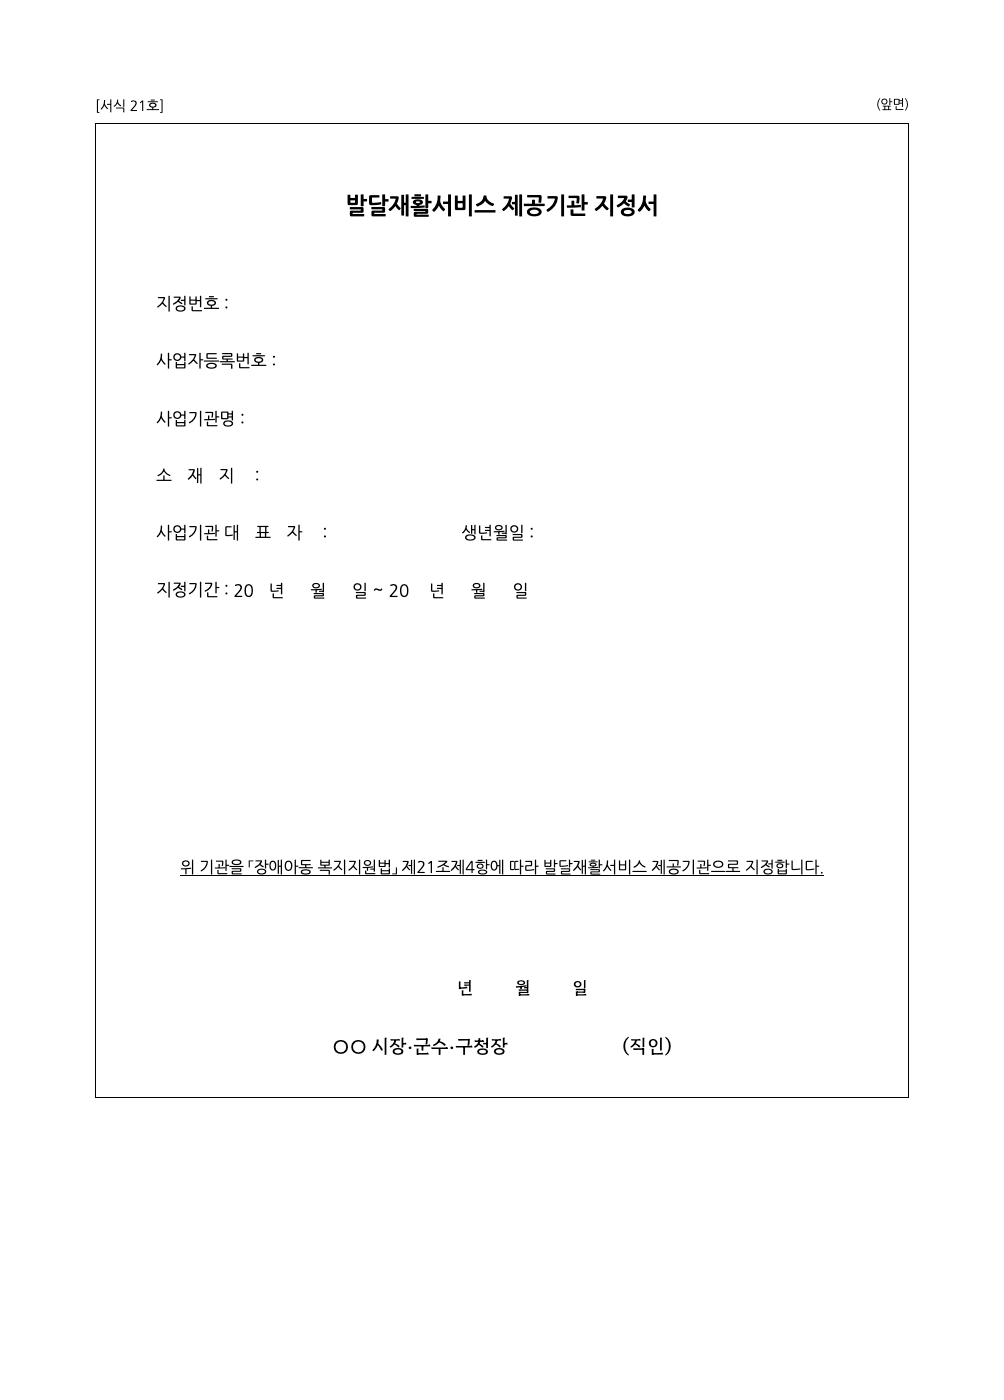
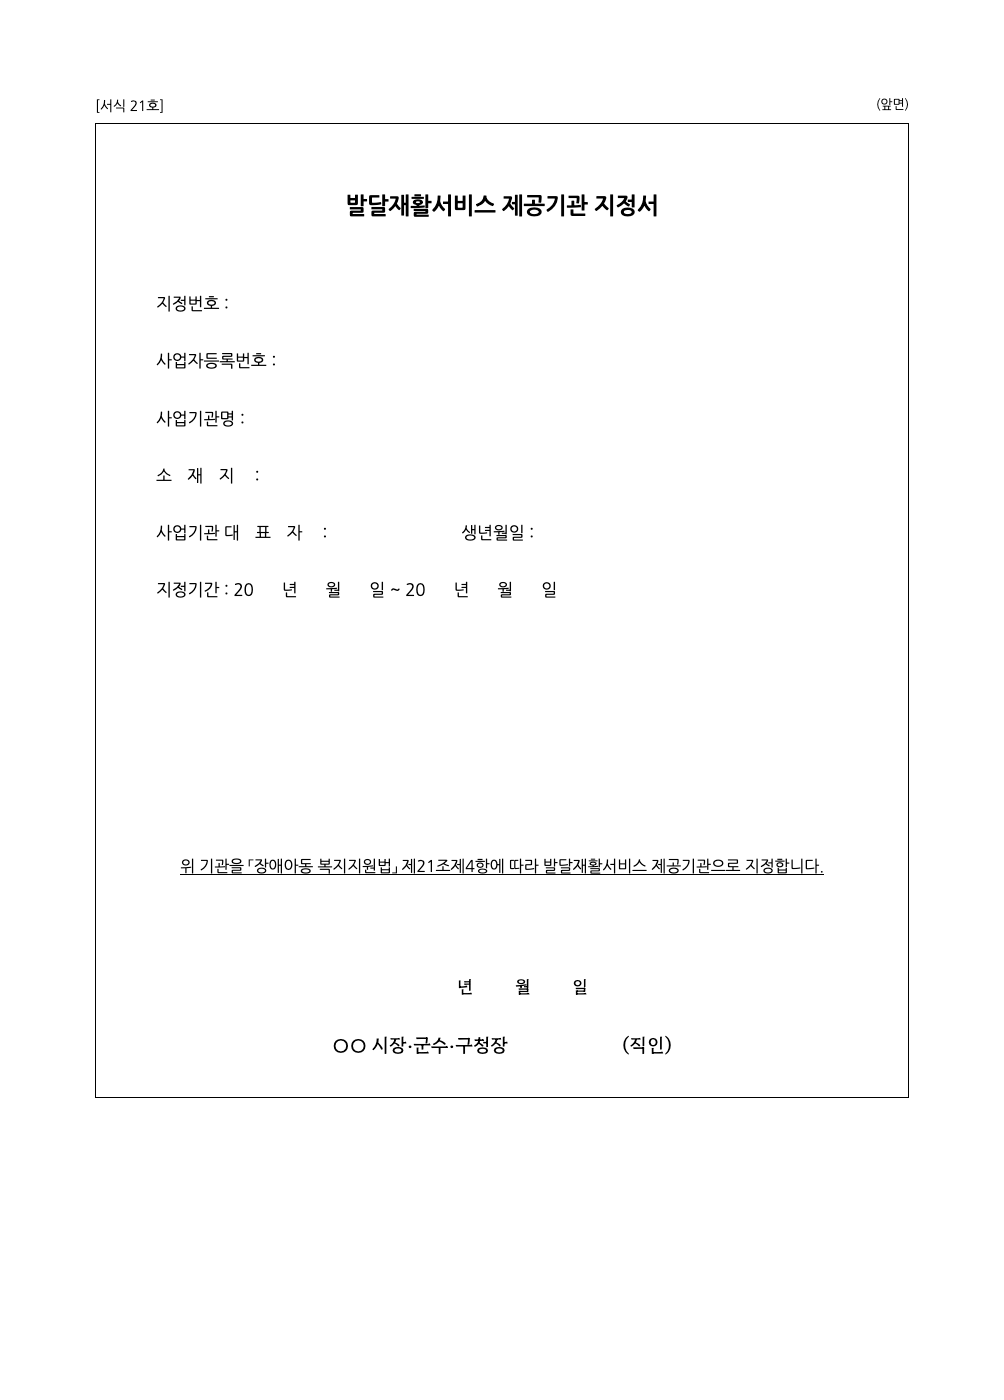
4_replica: 검토 지적 반영 — 5_2호 (자국어) 빈칸 폭 셀 안으로, 2편 21호 지정기간 빈칸 폭 24px 통일

diff --git a/4_replica/html/2편_서식21호_발달재활서비스_제공기관_지정서-1.html b/4_replica/html/2편_서식21호_발달재활서비스_제공기관_지정서-1.html
@@ -18,7 +18,7 @@ h1.tb{font-family:'NanumDotum';font-weight:700;font-size:23px;text-align:center;
 <div class="ln2">사업기관명 :<span class="gp" data-f="text" style="width:300px"></span></div>
 <div class="ln2"><span class="spread">소재지</span> :<span class="gp" data-f="text" style="width:300px"></span></div>
 <div class="ln2">사업기관 <span class="spread">대표자</span> :<span class="gp" data-f="text" style="width:130px"></span>생년월일 :<span class="gp" data-f="date" style="width:180px"></span></div>
-<div class="ln2">지정기간 : <span style="white-space:nowrap;display:inline-flex;align-items:center;gap:1px;vertical-align:middle"><span style="display:inline-flex;align-items:center;justify-content:center;width:34px;height:1.1em;vertical-align:middle;text-align:center">20<span data-f="date" class="gp" style="width:14px;margin:0"></span></span>년<span data-f="date" style="display:inline-block;width:24px;height:1.1em;vertical-align:middle;text-align:center"></span>월<span data-f="date" style="display:inline-block;width:24px;height:1.1em;vertical-align:middle;text-align:center"></span>일</span> ~ <span style="white-space:nowrap;display:inline-flex;align-items:center;gap:1px;vertical-align:middle"><span style="display:inline-flex;align-items:center;justify-content:center;width:40px;height:1.1em;vertical-align:middle;text-align:center">20<span data-f="date" class="gp" style="width:18px;margin:0;flex:none"></span></span>년<span data-f="date" style="display:inline-block;width:24px;height:1.1em;vertical-align:middle;text-align:center"></span>월<span data-f="date" style="display:inline-block;width:24px;height:1.1em;vertical-align:middle;text-align:center"></span>일</span></div>
+<div class="ln2">지정기간 : 20<span data-f="date" class="gp" style="width:24px;margin:0 2px"></span>년<span data-f="date" class="gp" style="width:24px;margin:0 2px"></span>월<span data-f="date" class="gp" style="width:24px;margin:0 2px"></span>일 ~ 20<span data-f="date" class="gp" style="width:24px;margin:0 2px"></span>년<span data-f="date" class="gp" style="width:24px;margin:0 2px"></span>월<span data-f="date" class="gp" style="width:24px;margin:0 2px"></span>일</div>
 
 <div class="stmt"><span>위 기관을 「장애아동 복지지원법」 제21조제4항에 따라 발달재활서비스 제공기관으로 지정합니다.</span></div>
 

diff --git a/4_replica/html/1편_서식5_2호_범죄경력_조회_동의서-1.html b/4_replica/html/1편_서식5_2호_범죄경력_조회_동의서-1.html
@@ -22,7 +22,7 @@ ol.w li .n{position:absolute;left:0;top:0}
   <td class="vl" rowspan="5">대상자</td>
   <td class="vl" rowspan="2"><span class="spread">성명</span></td>
   <td class="tl" colspan="2">(한글)<span class="gp" data-f="text" style="width:230px"></span></td>
-  <td class="tl">(자국어)<span class="gp" data-f="text" style="width:200px"></span></td>
+  <td class="tl">(자국어)<span class="gp" data-f="text" style="width:120px"></span></td>
 </tr>
 <tr>
   <td class="tl" colspan="2">(한자)<span class="gp" data-f="text" style="width:230px"></span></td>
